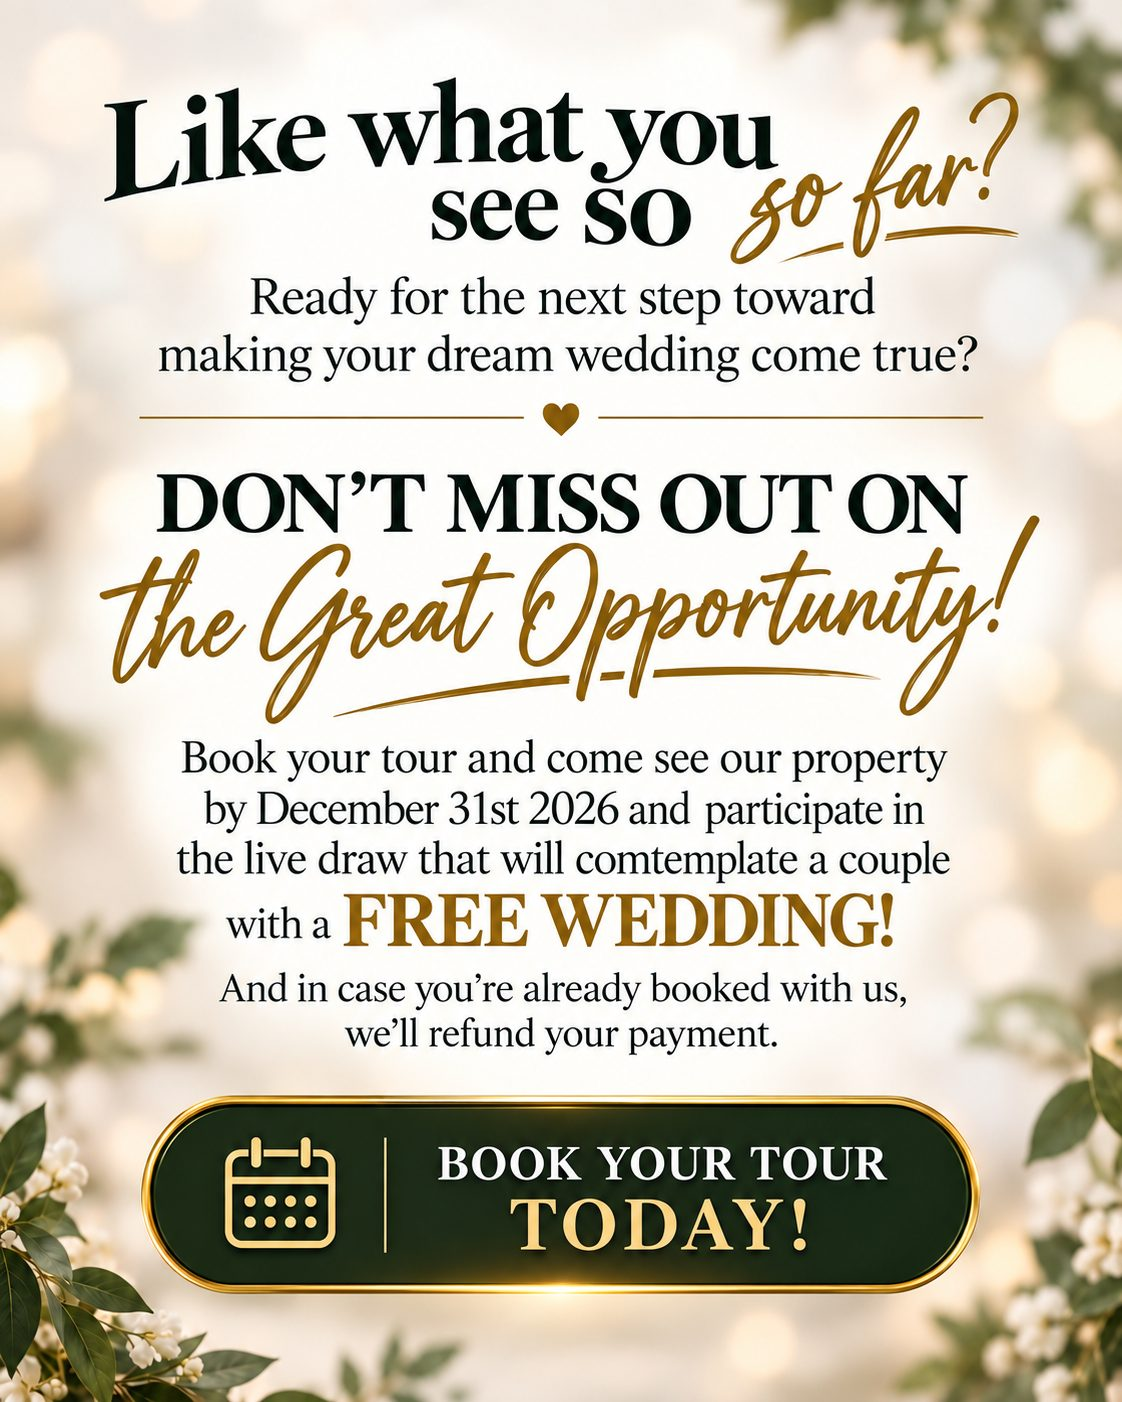
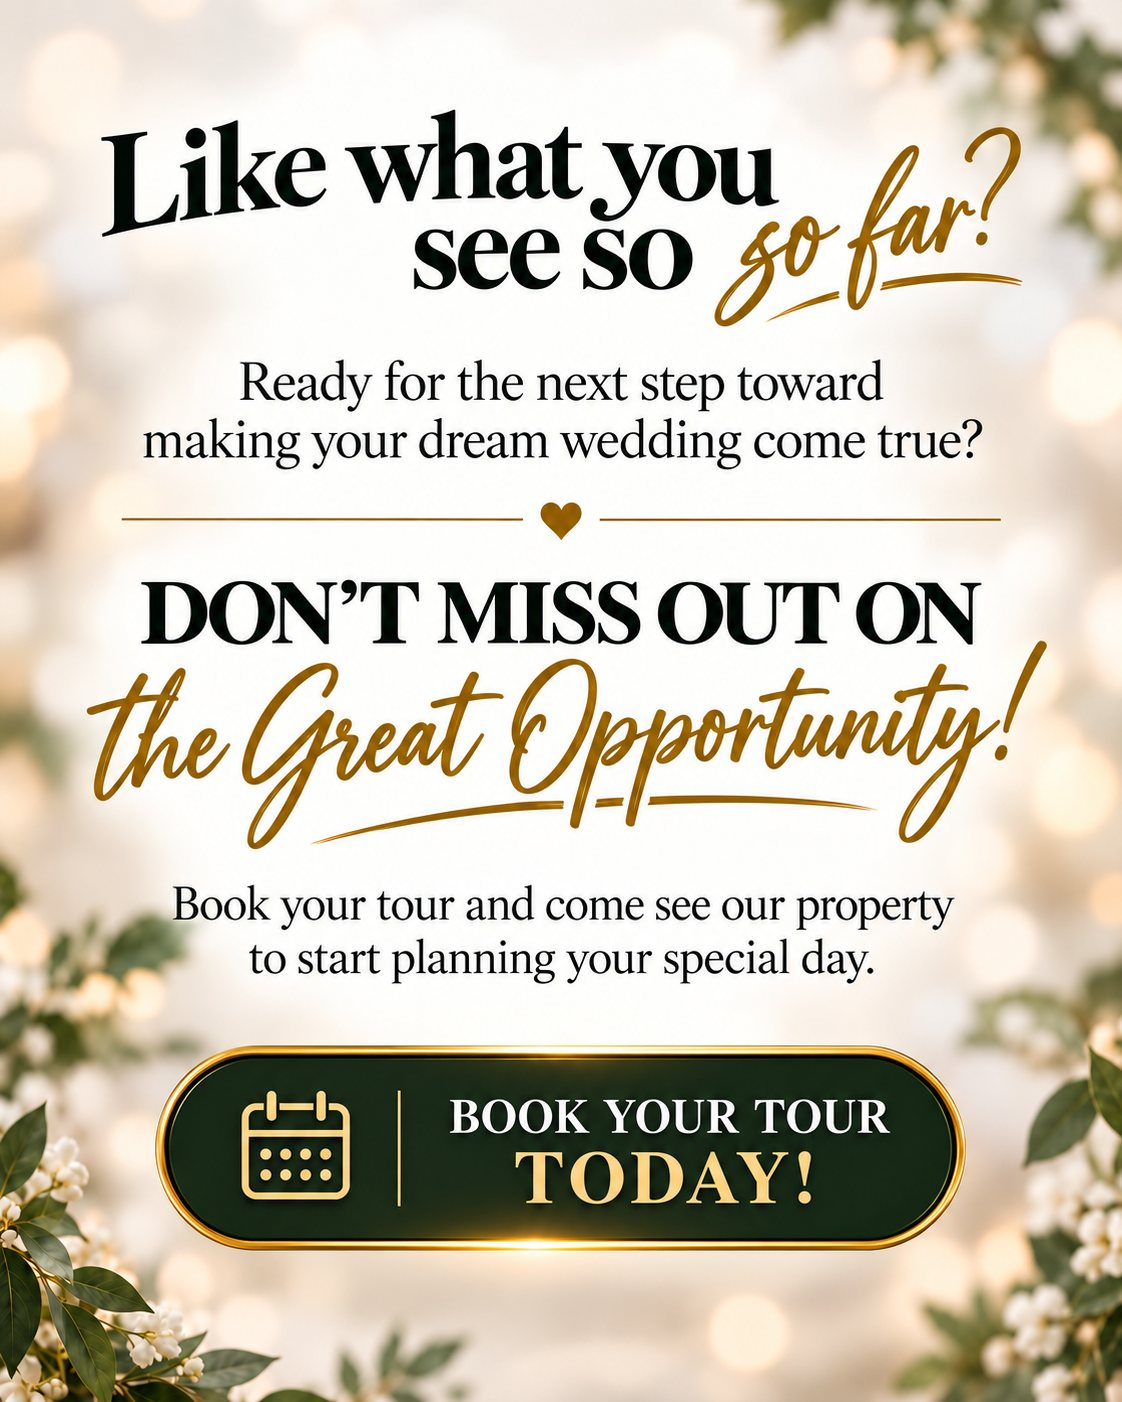
Update Book a Tour poster (#29)
Replace the promo image with the new green-and-gold poster (no free
wedding draw line) and refresh the alt text to match.

diff --git a/index.html b/index.html
@@ -566,7 +566,7 @@
         <div class="tour-promo">
           <button class="tour-promo-btn" id="tourPromoBtn" type="button" aria-haspopup="dialog" aria-label="Open the tour booking calendar">
             <img src="images/book-a-tour-promo.jpg"
-                 alt="Like what you see so far? Don't miss out on the great opportunity — free wedding draw. Book your tour today!"
+                 alt="Like what you see so far? Ready for the next step toward making your dream wedding come true? Don't miss out on the great opportunity — book your tour today!"
                  width="1122" height="1402" loading="lazy">
           </button>
         </div>
